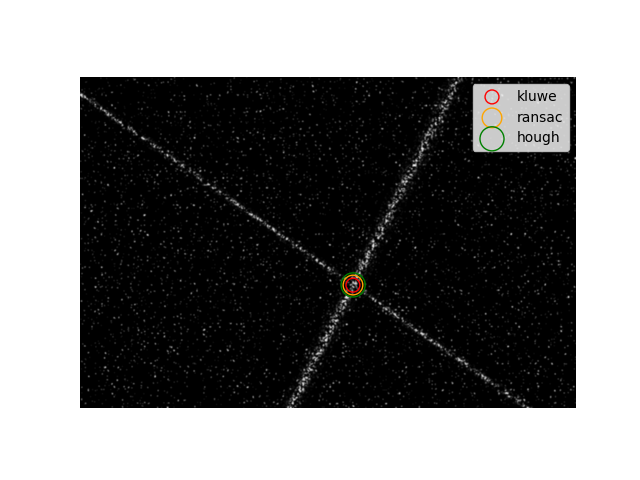
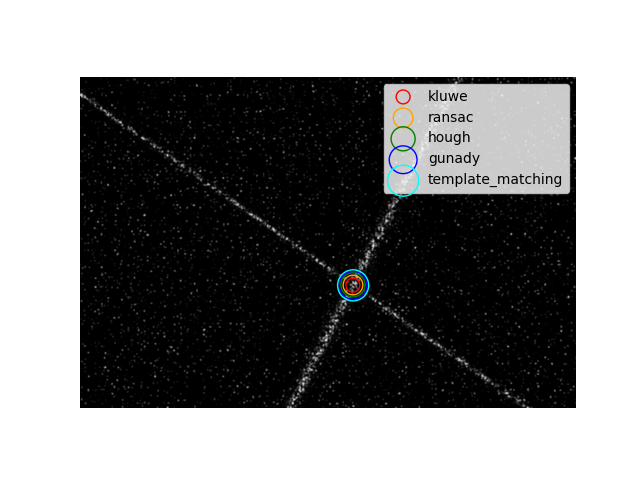
updated example detection
- update the example.py script
    - fixed template offset in template matching method
    - added threshold as new parameter to gunady method

Changed region(s): [[0.5938, 0.1562, 0.9062, 0.4062], [0.5312, 0.5625, 0.5938, 0.625]]

diff --git a/example.py b/example.py
@@ -1,47 +1,75 @@
 import laser_cross_detection as lcd
 import matplotlib.pyplot as plt
+import numpy as np
+from collections import namedtuple
 
+beam_parameter = namedtuple("BeamParameter", "width rho theta")
 
 if __name__ == "__main__":
-    methods = dict(
-        kluwe=lcd.core.Kluwe(),
-        ransac=lcd.core.Ransac(),
-        hough=lcd.core.Hough(),
-    )
-
-    beam1 = (12, 50, 125)  # beam width, rho, beam angle
-    beam2 = (27, 100, 27)  # beam width, rho, beam angle
+    beam1 = beam_parameter(12, 50, 125)  # beam width, rho, beam angle
+    beam2 = beam_parameter(27, 100, 27)  # beam width, rho, beam angle
 
     image = lcd.test.make_noisy_image(
         width=1200,
         height=800,
-        beam_width1=beam1[0],
-        rho1=beam1[1],
-        angle1=beam1[2],
-        beam_width2=beam2[0],
-        rho2=beam2[1],
-        angle2=beam2[2],
+        beam_width1=beam1.width,
+        rho1=beam1.rho,
+        angle1=beam1.theta,
+        beam_width2=beam2.width,
+        rho2=beam2.rho,
+        angle2=beam2.theta,
         add_threshold=0.8,
     ).T
 
     intersection = lcd.test.solve_for_intersection(
-        rho1=beam1[1],
-        theta1=beam1[2],
-        rho2=beam2[1],
-        theta2=beam2[2],
+        rho1=beam1.rho,
+        theta1=beam1.theta,
+        rho2=beam2.rho,
+        theta2=beam2.theta,
         offset=(600, 400),
     )
-
     print(f"Created test image with intersection point at {intersection}")
+
+    template_center, template_offset = np.divmod(intersection, 1)
+    window = 50
+    template = image[
+        int(template_center[1])
+        - window : int(template_center[1])
+        + window
+        + 1,
+        int(template_center[0])
+        - window : int(template_center[0])
+        + window
+        + 1,
+    ]
+
+    methods = dict(
+        kluwe=lcd.core.Kluwe(),
+        ransac=lcd.core.Ransac(),
+        hough=lcd.core.Hough(),
+        gunady=lcd.core.Gunady(),
+        template_matching=lcd.core.TemplateMatching(
+            template=template, intersec_offset=template_offset
+        ),
+    )
 
     print("Testing Methods...\n")
 
     fig, ax = plt.subplots()
     ax.imshow(image, cmap="gray")
     ax.axis(False)
-    colors = "red orange green".split()
+    colors = "red orange green blue cyan".split()
     for i, (name, method) in enumerate(methods.items()):
-        intersection = method(image)
+        if name == "gunady":
+            intersection = method(
+                image,
+                p01=(beam1.rho, beam1.width, beam1.theta, 255),
+                p02=(beam2.rho, beam2.width, beam2.theta, 255),
+                threshold=100,
+            )
+        else:
+            intersection = method(image)
+
         ax.scatter(
             *intersection, label=name, fc="none", ec=colors[i], s=(i + 1) * 100
         )

diff --git a/laser_cross_detection/core/gunady_detection.py b/laser_cross_detection/core/gunady_detection.py
@@ -25,6 +25,7 @@ class Gunady(DetectionMethodABC):
         *args,
         p01: Tuple[float, float, float, float],
         p02: Union[Tuple[float, float, float, float], None] = None,
+        threshold: float = 100,
         **kwargs
     ) -> nptyping.NDArray:
         """Estimates the intersection point of two gaussian beams in a 2d
@@ -42,6 +43,8 @@ class Gunady(DetectionMethodABC):
                 distance from center, beam width, peak intensity
                 ->  If not specified the set for beam one is used but rotated
                     by 90 degrees
+            threshold (int): intensity threshold used to remove dark objects
+                not belonging to the beams
 
         Returns:
             nptyping.NDArray: 1d array containing the coordinates (x, y) of the
@@ -50,7 +53,7 @@ class Gunady(DetectionMethodABC):
 
         height, width = arr.shape
         arr = arr.copy()
-        arr[arr < 50] = 0
+        arr[arr < threshold] = 0
 
         def fit_function(
             xy: Tuple[nptyping.NDArray, nptyping.NDArray],
@@ -101,10 +104,10 @@ class Gunady(DetectionMethodABC):
         )
         # create residual image
         residual = arr - first_beam_image
-        residual[residual < 50] = 0
+        residual[residual < threshold] = 0
         # fit the second beam
         if p02 is None:
-            p02 = p01 + [90, 0, 0, 0]
+            p02 = np.add(p01, [90, 0, 0, 0])
         popt, pcov = sopt.curve_fit(
             fit_function,
             (xx, yy),

diff --git a/laser_cross_detection/core/template_detection.py b/laser_cross_detection/core/template_detection.py
@@ -82,13 +82,20 @@ class TemplateMatching(DetectionMethodABC):
             params=params,
         )
 
-        return np.add(
-            (
-                fit_result.best_values["centerx"],
-                fit_result.best_values["centery"],
-            ),
-            self.intersec_offset,
+        return (
+            np.add(
+                (
+                    fit_result.best_values["centerx"],
+                    fit_result.best_values["centery"],
+                ),
+                self.intersec_offset,
+            )
+            + self.half_template_shape
         )
+
+    @property
+    def half_template_shape(self):
+        return np.divide(self.template.shape, 2)
 
     def update_template(
         self, template: nptyping.NDArray, intersec_offset: Tuple[float, float]

diff --git a/README.md b/README.md
@@ -5,12 +5,13 @@ This repository contains code to accurately detect the intersection point of two
 
 ![](readme-figures/example_image.png)
 
-The package provides a core module `laser_cross_detection.core` with four different methods to detect the point of intersection:
+The package provides a core module `laser_cross_detection.core` with five different methods to detect the point of intersection:
 
 - RANSAC
 - Probabilistic Hough Transform
 - Template Matching (currently under construction)
 - Kluwe (new implementation by the authors)
+- Gunady (beam fitting method described by [Gunady et al. 2024](https://doi.org/10.1088/1361-6501/ad574d))
 
 The example image can be generated by executing
 
@@ -23,9 +24,11 @@ The corresponding output is
 Created test image with intersection point at [659.79762583 502.90947781]
 Testing Methods...
 
-	kluwe  - [659.8236829  502.95526115]
-	ransac - [659.89846121 502.68817464]
-	hough  - [660.28570052 502.37758916]
+        kluwe - [659.8236829  502.95526115]
+        ransac - [659.89846121 502.68817464]
+        hough - [659.91429129 502.34140622]
+        gunady - [660.07210569 503.1892573 ]
+        template_matching - [660.29762583 503.40947781]
 
 Done
 ```
